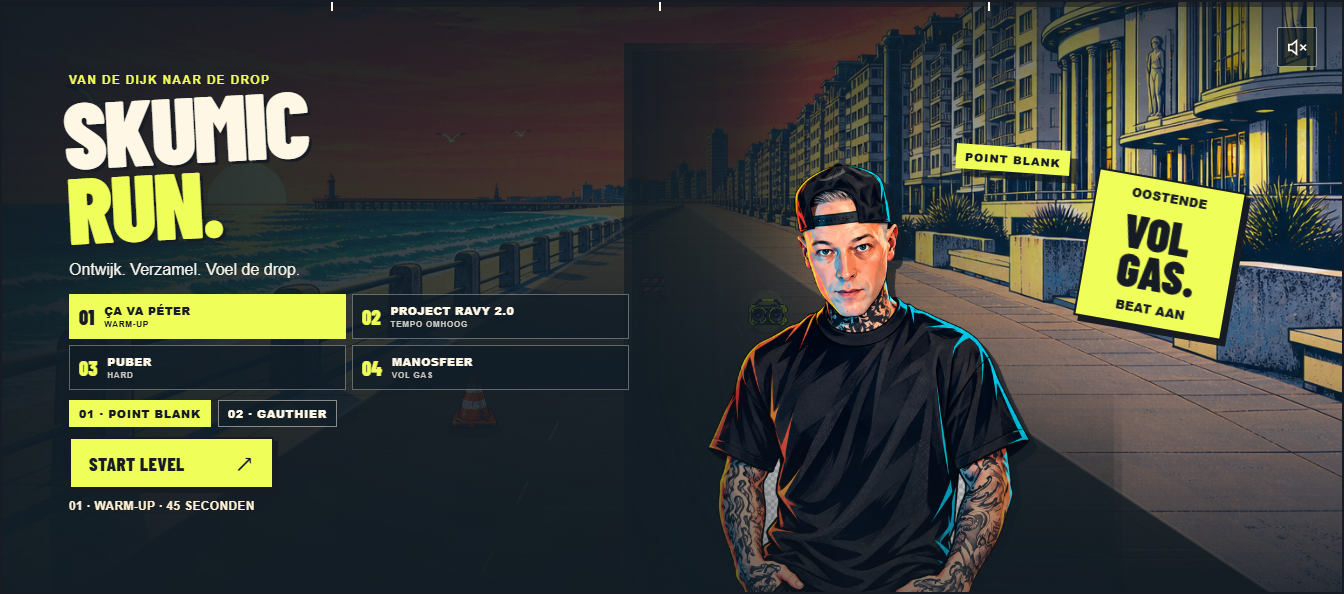
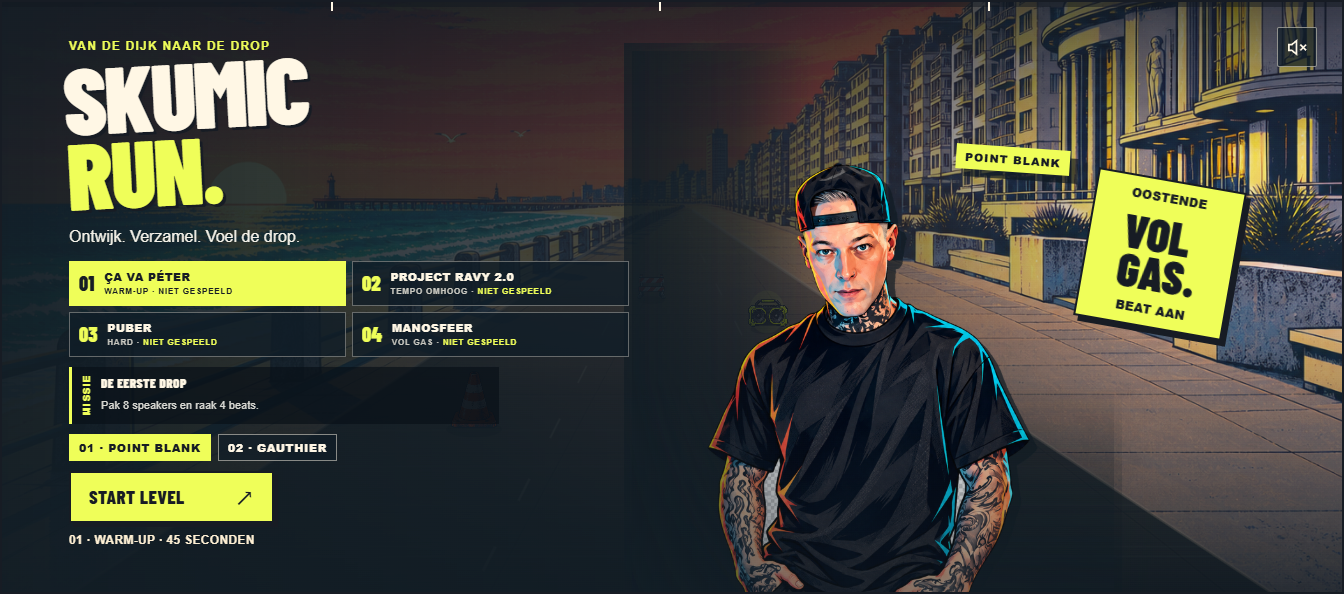
Upgrade Skumic Run and prepare Railway runtime

Changed region(s): [[0.0312, 0.0606, 0.4688, 0.9394], [0.3438, 0.6364, 0.375, 0.7273]]

diff --git a/public/skumic-game/index.html b/public/skumic-game/index.html
@@ -23,19 +23,22 @@
         <canvas id="game" aria-label="Drie rijstroken op de Oostendse zeedijk. Ontwijk obstakels en verzamel speakers." tabindex="0"></canvas>
         <div class="vignette" aria-hidden="true"></div>
         <div class="run-progress" aria-hidden="true"><div id="run-progress"></div><i></i><i></i><i></i></div>
+        <div class="level-grade" aria-hidden="true"></div>
         <div class="hud" id="hud">
           <div class="score-block"><span class="hud-label">SCORE</span><strong id="score">00000</strong><span class="best-label">BEST <b id="best">00000</b></span></div>
           <div class="run-stats"><div class="time-stat"><span class="hud-label">TIJD</span><strong id="time">45<span>s</span></strong></div><div class="lives" id="lives" aria-label="3 levens">♥ ♥ ♥</div><div class="combo-stat"><span class="hud-label">FLOW</span><strong id="combo">0</strong></div></div>
           <div class="game-tools"><button id="pause" class="icon-button" aria-label="Pauzeer spel" title="Pauze (P)" hidden>Ⅱ</button><button id="sound" class="icon-button sound-button" aria-label="Geluid aanzetten" title="Geluid aanzetten"><svg viewBox="0 0 24 24" fill="none" stroke="currentColor" stroke-width="1.8" aria-hidden="true"><path d="M11 5 6 9H3v6h3l5 4z"/><path class="sound-waves" d="M15 8c3 2 3 6 0 8m3-11c5 4 5 10 0 14"/><path class="sound-off" d="m15 9 6 6m0-6-6 6"/></svg></button></div>
         </div>
+        <div class="mission-hud" id="mission-hud"><span>MISSIE</span><b id="mission-progress">0/8 SPEAKERS · 0/4 BEATS</b></div>
         <div class="game-feedback" id="feedback" aria-live="polite"></div>
+        <div class="level-intro" id="level-intro" hidden aria-live="polite"><span id="intro-kicker">LEVEL 01</span><strong id="intro-title">ÇA VA PÉTER</strong><em id="intro-go">READY</em></div>
         <div class="start-screen overlay" id="start-screen">
-          <div class="start-copy"><span class="eyebrow">VAN DE DIJK NAAR DE DROP</span><h1>SKUMIC<br><span>RUN.</span></h1><p>Ontwijk. Verzamel. Voel de drop.</p><div class="level-picker" role="group" aria-label="Kies je level"><button class="level-choice selected" id="level-1" type="button" aria-pressed="true"><b>01</b><span>ÇA VA PÉTER<small>WARM-UP</small></span></button><button class="level-choice" id="level-2" type="button" aria-pressed="false"><b>02</b><span>PROJECT RAVY 2.0<small>TEMPO OMHOOG</small></span></button><button class="level-choice" id="level-3" type="button" aria-pressed="false"><b>03</b><span>PUBER<small>HARD</small></span></button><button class="level-choice" id="level-4" type="button" aria-pressed="false"><b>04</b><span>MANOSFEER<small>VOL GAS</small></span></button></div><div class="character-picker" role="group" aria-label="Kies je personage"><button class="character-choice selected" id="character-1" type="button" aria-pressed="true">01 · POINT BLANK</button><button class="character-choice" id="character-2" type="button" aria-pressed="false">02 · GAUTHIER</button></div><button class="primary-button" id="start">START LEVEL <span aria-hidden="true">↗</span></button><div class="start-caption" id="start-caption">01 · WARM-UP · 45 SECONDEN</div></div>
+          <div class="start-copy"><span class="eyebrow">VAN DE DIJK NAAR DE DROP</span><h1>SKUMIC<br><span>RUN.</span></h1><p>Ontwijk. Verzamel. Voel de drop.</p><div class="level-picker" role="group" aria-label="Kies je level"><button class="level-choice selected" id="level-1" type="button" aria-pressed="true"><b>01</b><span>ÇA VA PÉTER<small>WARM-UP · <i id="rank-1">—</i></small></span></button><button class="level-choice" id="level-2" type="button" aria-pressed="false"><b>02</b><span>PROJECT RAVY 2.0<small>TEMPO OMHOOG · <i id="rank-2">—</i></small></span></button><button class="level-choice" id="level-3" type="button" aria-pressed="false"><b>03</b><span>PUBER<small>HARD · <i id="rank-3">—</i></small></span></button><button class="level-choice" id="level-4" type="button" aria-pressed="false"><b>04</b><span>MANOSFEER<small>VOL GAS · <i id="rank-4">—</i></small></span></button></div><div class="mission-brief"><span>MISSIE</span><strong id="mission-title">DE EERSTE DROP</strong><p id="mission-copy">Pak 8 speakers en raak 4 beats.</p></div><div class="character-picker" role="group" aria-label="Kies je personage"><button class="character-choice selected" id="character-1" type="button" aria-pressed="true">01 · POINT BLANK</button><button class="character-choice" id="character-2" type="button" aria-pressed="false">02 · GAUTHIER</button></div><button class="primary-button" id="start">START LEVEL <span aria-hidden="true">↗</span></button><div class="start-caption" id="start-caption">01 · WARM-UP · 45 SECONDEN</div></div>
           <div class="character-card" aria-hidden="true"><img id="character-portrait" src="./assets/character-portrait.png" alt=""><span id="player-label">POINT BLANK</span></div>
           <div class="start-sticker" aria-hidden="true"><span>OOSTENDE</span><b>VOL<br>GAS.</b><span>BEAT AAN</span></div>
         </div>
         <div class="pause-screen overlay" id="pause-screen" hidden><div class="pause-card"><span class="eyebrow">EVEN OP ADEM</span><h2>PAUZE.</h2><p>De beat wacht op jou.</p><button class="primary-button" id="resume">VERDER SPELEN <span aria-hidden="true">↗</span></button></div></div>
-        <div class="result-screen overlay" id="result-screen" hidden><div class="result-card"><span class="eyebrow" id="result-eyebrow">RUN VOLTOOID</span><h2 id="result-title">DIJK VAN<br>EEN RUN.</h2><div class="result-score" id="result-score">0</div><span class="result-score-label">PUNTEN</span><div class="result-stats"><div><b id="result-speakers">0</b><span>SPEAKERS</span></div><div><b id="result-beats">0</b><span>BEAT HITS</span></div><div><b id="result-flow">0</b><span>MAX FLOW</span></div><div><b id="result-best">0</b><span>JOUW BEST</span></div></div><button class="primary-button" id="next-level">VOLGEND LEVEL <span aria-hidden="true">↗</span></button><button class="share-button" id="restart">SPEEL OPNIEUW <span aria-hidden="true">↗</span></button><button class="share-button" id="level-menu">KIES EEN LEVEL <span aria-hidden="true">↗</span></button><button class="share-button" id="share">DEEL JE SCORE <span aria-hidden="true">↗</span></button><p class="share-status" id="share-status" role="status"></p><a class="result-listen" href="https://open.spotify.com/artist/3iG6zyXOqRQOiRfTKPvDJq" target="_blank" rel="noopener noreferrer">Meer energie? Luister Skumic op Spotify ↗</a><p class="result-demo" id="result-demo">Soundtrack: Ça Va Péter — Skumic.</p></div></div>
+        <div class="result-screen overlay" id="result-screen" hidden><div class="result-card"><span class="eyebrow" id="result-eyebrow">RUN VOLTOOID</span><div class="rank-lockup"><span>RANK</span><strong id="result-rank">A</strong><em id="result-mission">MISSIE VOLTOOID</em></div><h2 id="result-title">DIJK VAN<br>EEN RUN.</h2><div class="result-score" id="result-score">0</div><span class="result-score-label">PUNTEN</span><div class="result-stats"><div><b id="result-speakers">0</b><span>SPEAKERS</span></div><div><b id="result-beats">0</b><span>BEAT HITS</span></div><div><b id="result-flow">0</b><span>MAX FLOW</span></div><div><b id="result-best">0</b><span>JOUW BEST</span></div></div><button class="primary-button" id="next-level">VOLGEND LEVEL <span aria-hidden="true">↗</span></button><button class="share-button" id="restart">SPEEL OPNIEUW <span aria-hidden="true">↗</span></button><button class="share-button" id="level-menu">KIES EEN LEVEL <span aria-hidden="true">↗</span></button><button class="share-button" id="share">DEEL JE SCORE <span aria-hidden="true">↗</span></button><p class="share-status" id="share-status" role="status"></p><a class="result-listen" href="https://open.spotify.com/artist/3iG6zyXOqRQOiRfTKPvDJq" target="_blank" rel="noopener noreferrer">Meer energie? Luister Skumic op Spotify ↗</a><p class="result-demo" id="result-demo">Soundtrack: Ça Va Péter — Skumic.</p></div></div>
         <div class="beat-panel" id="beat-panel"><div class="beat-heading"><span id="beat-label">VIND JE RITME</span><span id="boost-label">DROP IN 11s</span></div><div class="beat-meter" id="beat-meter" aria-label="Ritme-indicator"><div id="beat-progress"></div><div class="beat-target"></div><div class="beat-cursor" id="beat-cursor"></div></div><div class="beat-caption"><span id="beat-tip">SPRING OP DE BEAT → EXTRA PUNTEN</span><span id="multiplier">×1</span></div></div>
         <div class="touch-controls" id="touch-controls"><button id="left" aria-label="Naar links">←</button><button id="jump" aria-label="Spring op de beat"><span>↑</span> SPRING</button><button id="right" aria-label="Naar rechts">→</button></div>
       </section>

diff --git a/public/skumic-game/game.js b/public/skumic-game/game.js
@@ -9,7 +9,9 @@ let best = 0, mutedByChoice = false, feedbackUntil = 0, particles = [], popups =
 let pointerStart = null, uiUpdated = 0, lastBeat = -1, lastCombo = 0;
 let selectedCharacter = 1, selectedLevel = 0;
 const levelBests = {};
+const levelRanks = {};
 try { Object.assign(levelBests, JSON.parse(localStorage.getItem('skumic-run-level-bests') || '{}')); } catch {}
+try { Object.assign(levelRanks, JSON.parse(localStorage.getItem('skumic-run-level-ranks') || '{}')); } catch {}
 best = Number(levelBests[LEVELS[0].id]) || 0;
 const reducedMotion = matchMedia('(prefers-reduced-motion: reduce)').matches;
 const images = {};
@@ -18,6 +20,14 @@ for (const [name, source] of Object.entries({ background: './assets/oostende.png
 }
 const padScore = value => Math.floor(value).toString().padStart(5, '0');
 $('best').textContent = padScore(best);
+const rankValue = rank => ({ S: 4, A: 3, B: 2, C: 1, D: 0 }[rank] ?? -1);
+function calculateRank(score) {
+  if (!model.lives) return 'D';
+  if (score >= MUSIC.ranks[0] && model.lives === 3) return 'S';
+  if (score >= MUSIC.ranks[1]) return 'A';
+  if (score >= MUSIC.ranks[2]) return 'B';
+  return 'C';
+}
 
 function selectCharacter(choice) {
   if (mode === 'playing' || mode === 'starting') return;
@@ -41,10 +51,13 @@ function selectLevel(index) {
   $('selected-track').textContent = `${level.title} · SKUMIC`;
   $('result-demo').textContent = `Soundtrack: ${level.title} — Skumic.`;
   $('start-caption').textContent = `${level.number} · ${level.difficulty} · 45 SECONDEN`;
+  $('mission-title').textContent = level.subtitle;
+  $('mission-copy').textContent = `Pak ${level.mission.speakers} speakers en raak ${level.mission.beats} beats.`;
   document.documentElement.dataset.level = String(selectedLevel + 1);
   for (let i = 0; i < LEVELS.length; i++) {
     const button = $(`level-${i + 1}`), selected = i === selectedLevel;
     button.classList.toggle('selected', selected); button.setAttribute('aria-pressed', String(selected));
+    $(`rank-${i + 1}`).textContent = levelRanks[LEVELS[i].id] ? `RANK ${levelRanks[LEVELS[i].id]}` : 'NIET GESPEELD';
   }
 }
 
@@ -83,6 +96,8 @@ async function start() {
   $('start-screen').hidden = true; $('result-screen').hidden = true; $('pause-screen').hidden = true;
   $('pause').hidden = false; $('share-status').textContent = ''; $('feedback').classList.remove('show');
   $('game-frame').classList.add('started'); mode = 'playing'; audio.start(0);
+  $('intro-kicker').textContent = `LEVEL ${MUSIC.number} · ${MUSIC.difficulty}`; $('intro-title').textContent = MUSIC.title; $('intro-go').textContent = MUSIC.subtitle;
+  const intro = $('level-intro'); intro.hidden = false; intro.classList.remove('play'); void intro.offsetWidth; intro.classList.add('play'); setTimeout(() => { intro.hidden = true; }, 1900);
   soundState(); lastFrame = performance.now(); $('start').disabled = false; $('restart').disabled = false;
   $('start').innerHTML = startLabel; $('restart').innerHTML = restartLabel;
   canvas.focus({ preventScroll: true }); updateUI();
@@ -102,14 +117,19 @@ async function resume() {
 function finish() {
   mode = 'finished'; audio.stop(); $('pause').hidden = true;
   $('game-frame').classList.remove('boosting'); $('feedback').classList.remove('show');
-  const score = Math.floor(model.score), record = score > best;
+  const score = Math.floor(model.score), record = score > best, rank = calculateRank(score);
   if (record) { best = score; levelBests[MUSIC.id] = best; try { localStorage.setItem('skumic-run-level-bests', JSON.stringify(levelBests)); } catch {} }
+  if (!levelRanks[MUSIC.id] || rankValue(rank) > rankValue(levelRanks[MUSIC.id])) { levelRanks[MUSIC.id] = rank; try { localStorage.setItem('skumic-run-level-ranks', JSON.stringify(levelRanks)); } catch {} }
+  const missionComplete = model.speakers >= MUSIC.mission.speakers && model.beats >= MUSIC.mission.beats;
   $('result-eyebrow').textContent = record ? 'NIEUWE PERSOONLIJKE BEST!' : model.lives ? '45 SECONDEN. ALLES GEGEVEN.' : 'DE DIJK HAD ANDERE PLANNEN';
   $('result-title').innerHTML = model.lives ? 'DIJK VAN<br>EEN RUN.' : 'NOG NIET<br>UITGERAASD?';
   $('result-score').textContent = score.toLocaleString('nl-BE'); $('result-best').textContent = best.toLocaleString('nl-BE');
   $('result-speakers').textContent = model.speakers; $('result-beats').textContent = model.beats; $('result-flow').textContent = model.maxCombo;
+  $('result-rank').textContent = rank; $('result-mission').textContent = missionComplete ? 'MISSIE VOLTOOID' : 'MISSIE NIET VOLTOOID';
+  $('result-mission').classList.toggle('complete', missionComplete);
   $('next-level').innerHTML = selectedLevel < LEVELS.length - 1 ? 'VOLGEND LEVEL <span aria-hidden="true">↗</span>' : 'LEVELS KIEZEN <span aria-hidden="true">↗</span>';
   $('best').textContent = padScore(best); $('result-screen').hidden = false;
+  $(`rank-${selectedLevel + 1}`).textContent = `RANK ${levelRanks[MUSIC.id]}`;
   $('next-level').focus({ preventScroll: true });
 }
 function showLevelMenu() {
@@ -210,6 +230,14 @@ function drawBackdrop() {
   } else {
     const gradient = ctx.createLinearGradient(0, 0, 0, height); gradient.addColorStop(0, '#ef6960'); gradient.addColorStop(.4, '#eeab83'); gradient.addColorStop(.401, '#456b6a'); gradient.addColorStop(1, '#273941'); ctx.fillStyle = gradient; ctx.fillRect(0, 0, width, height);
   }
+  // Each track gets its own atmosphere without replacing the supplied Oostende art.
+  const grade = [
+    ['rgba(255,78,68,.10)', 'rgba(255,192,98,.06)'],
+    ['rgba(129,43,255,.18)', 'rgba(0,223,255,.08)'],
+    ['rgba(6,18,40,.28)', 'rgba(255,25,105,.10)'],
+    ['rgba(0,8,20,.38)', 'rgba(239,254,89,.08)'],
+  ][selectedLevel];
+  const sky = ctx.createLinearGradient(0, 0, 0, height); sky.addColorStop(0, grade[0]); sky.addColorStop(1, grade[1]); ctx.fillStyle = sky; ctx.fillRect(0, 0, width, height);
   const horizon = height * .35, roadLeft = project(-.5, -65), roadRight = project(2.5, -65), bottom = roadLeft.y;
   const roadGradient = ctx.createLinearGradient(0, horizon, 0, bottom); roadGradient.addColorStop(0, 'rgba(43,47,50,.24)'); roadGradient.addColorStop(.27, 'rgba(44,47,48,.88)'); roadGradient.addColorStop(1, '#293136');
   polygon([[width / 2 - 18, horizon], [width / 2 + 18, horizon], [roadRight.x, bottom], [roadLeft.x, bottom]], roadGradient);
@@ -234,6 +262,12 @@ function drawBackdrop() {
     const a = project(edge, -27), b = project(edge, 126);
     ctx.strokeStyle = model.boost ? '#effe59' : '#e3c3a780'; ctx.lineWidth = width < 600 ? 2 : 3;
     ctx.beginPath(); ctx.moveTo(a.x, a.y); ctx.lineTo(b.x, b.y); ctx.stroke();
+  }
+  if (mode === 'playing' && selectedLevel > 0 && !reducedMotion) {
+    ctx.save(); ctx.strokeStyle = selectedLevel === 3 ? '#effe5938' : '#ffffff22'; ctx.lineWidth = selectedLevel + 1;
+    const count = 6 + selectedLevel * 4;
+    for (let i = 0; i < count; i++) { const x = ((i * 137 + frameNow * (.035 + selectedLevel * .012)) % (width + 120)) - 60, y = (i * 83) % height; ctx.beginPath(); ctx.moveTo(x, y); ctx.lineTo(x - 14 - selectedLevel * 7, y + 38 + selectedLevel * 10); ctx.stroke(); }
+    ctx.restore();
   }
 }
 function shadow(x, y, size, opacity = .32) { ctx.fillStyle = `rgba(6,16,22,${opacity})`; ctx.beginPath(); ctx.ellipse(x, y, size * .55, size * .16, 0, 0, Math.PI * 2); ctx.fill(); }
@@ -305,6 +339,8 @@ function updateUI() {
   $('beat-label').textContent = model.boost ? 'BEATBOOST ACTIEF' : 'VIND JE RITME';
   $('beat-tip').textContent = model.boost ? 'PAK ALLES. JE BREEKT ERDOORHEEN.' : 'SPRING ALS DE BALK VOL IS';
   $('multiplier').textContent = `×${model.multiplier}`;
+  $('mission-progress').textContent = `${Math.min(model.speakers, MUSIC.mission.speakers)}/${MUSIC.mission.speakers} SPEAKERS · ${Math.min(model.beats, MUSIC.mission.beats)}/${MUSIC.mission.beats} BEATS`;
+  $('mission-hud').classList.toggle('complete', model.speakers >= MUSIC.mission.speakers && model.beats >= MUSIC.mission.beats);
   $('game-frame').classList.toggle('boosting', model.boost && mode === 'playing');
   if (beat !== lastBeat) { lastBeat = beat; $('beat-meter').style.borderColor = '#effe59'; }
   else if (fraction > .22) $('beat-meter').style.borderColor = 'rgba(255,255,255,.18)';

diff --git a/public/skumic-game/styles.css b/public/skumic-game/styles.css
@@ -33,3 +33,15 @@ button,a{touch-action:manipulation}
 @media(max-width:760px){.game-frame{height:min(82svh,720px);min-height:620px}.start-screen{padding:82px 18px 95px;align-items:center;overflow:auto}.start-copy{width:100%;max-width:430px}.start-copy h1{font-size:clamp(60px,20vw,82px);margin:7px 0 10px}.start-copy p{font-size:14px;margin-bottom:10px}.level-picker{gap:5px}.level-choice{min-height:42px;padding:6px 7px}.level-choice>b{font-size:18px}.level-choice>span{font-size:10px}.level-choice small{font-size:7px}.character-card{display:none}.character-picker{gap:5px}.character-choice{font-size:9px;padding:7px}.start-copy .primary-button{font-size:18px;min-height:45px}.start-caption{font-size:9px;line-height:1.3}.made-by{display:block}.below-game{align-items:center}}
 @media(max-width:420px){.game-frame{min-height:650px}.start-screen{padding-inline:14px}.level-choice>span{font-size:9px}.level-choice small{letter-spacing:.4px}footer{flex-wrap:wrap}.made-by{order:3;width:100%;text-align:center;margin-top:4px}}
 @media(max-width:370px){.brand{font-size:25px;gap:5px}.brand-mark{display:none}.game-topline{font-size:12px;letter-spacing:0}.start-screen{padding-left:20px}.start-copy p{max-width:220px}.start-caption{max-width:220px}.beat-caption{font-size:12px}.beat-panel{left:18px;right:18px}.beat-heading{font-size:12px}.result-listen{font-size:14px}.result-card h2{font-size:38px}.result-score{font-size:53px}}
+
+/* Cinematic campaign polish */
+:root{--level-glow:#ff695f;--level-deep:#391a22}html[data-level="2"]{--level-glow:#a14cff;--level-deep:#17113c}html[data-level="3"]{--level-glow:#ff2879;--level-deep:#071a35}html[data-level="4"]{--level-glow:#effe59;--level-deep:#071018}
+body{background:radial-gradient(circle at 50% 20%,var(--level-glow),var(--red) 42%);transition:background .55s ease}.level-grade{position:absolute;inset:0;z-index:2;pointer-events:none;mix-blend-mode:screen;opacity:.23;background:radial-gradient(circle at 52% 32%,var(--level-glow),transparent 44%);transition:background .5s}
+.mission-brief{display:grid;grid-template-columns:auto 1fr;align-items:center;column-gap:10px;margin:0 0 10px;padding:8px 10px;border-left:3px solid var(--yellow);background:rgba(7,15,22,.67);width:min(430px,100%)}.mission-brief>span{grid-row:1/3;font:800 9px/1 Arial,sans-serif;letter-spacing:1px;color:var(--yellow);writing-mode:vertical-rl;transform:rotate(180deg)}.mission-brief strong{font:900 13px/1 Barlow,Impact,sans-serif;letter-spacing:.5px}.mission-brief p{font-size:11px!important;margin:3px 0 0!important;color:#d9d9d3!important}
+.mission-hud{position:absolute;left:29px;top:114px;z-index:5;color:var(--cream);display:flex;flex-direction:column;gap:4px;pointer-events:none}.mission-hud>span{font:700 9px/1 Arial,sans-serif;letter-spacing:1.2px;color:#ccd0d2}.mission-hud>b{font:800 11px/1.2 Arial,sans-serif;letter-spacing:.45px}.mission-hud.complete>b{color:var(--yellow);text-shadow:0 0 10px var(--yellow)}.game-frame:not(.started) .mission-hud{visibility:hidden}
+.level-intro{position:absolute;inset:0;z-index:8;display:grid;place-content:center;text-align:center;color:var(--cream);pointer-events:none;background:linear-gradient(90deg,transparent,var(--level-deep) 20%,var(--level-deep) 80%,transparent);clip-path:inset(42% 0)}.level-intro span,.level-intro em{font:800 11px/1 Arial,sans-serif;letter-spacing:2.2px;color:var(--yellow)}.level-intro strong{font:900 clamp(52px,8vw,110px)/.82 Barlow,Impact,sans-serif;font-style:italic;letter-spacing:-2px;text-shadow:4px 4px 0 #05070a;margin:12px 0}.level-intro.play{animation:intro-panel 1.85s ease both}.level-intro.play span,.level-intro.play strong,.level-intro.play em{animation:intro-type 1.85s ease both}@keyframes intro-panel{0%{clip-path:inset(50% 0);opacity:0}12%,75%{clip-path:inset(30% 0);opacity:1}100%{clip-path:inset(50% 0);opacity:0}}@keyframes intro-type{0%,10%{transform:translateX(-55px);opacity:0}24%,70%{transform:none;opacity:1}100%{transform:translateX(55px);opacity:0}}
+.rank-lockup{position:absolute;left:calc(50% + 120px);top:22px;display:flex;flex-direction:column;align-items:center;transform:rotate(4deg)}.rank-lockup>span{font:800 9px/1 Arial,sans-serif;letter-spacing:2px}.rank-lockup>strong{font:900 72px/.78 Barlow,Impact,sans-serif;color:var(--yellow);text-shadow:3px 3px 0 #000}.rank-lockup>em{font:800 8px/1 Arial,sans-serif;letter-spacing:.6px;background:#3c4249;padding:5px 7px;margin-top:7px;white-space:nowrap}.rank-lockup>em.complete{background:var(--yellow);color:var(--ink)}.result-card{position:relative}.result-card h2{padding-right:64px}.level-choice small i{font-style:normal;color:var(--yellow)}.level-choice.selected small i{color:var(--ink)}
+.game-frame.boosting .level-grade{opacity:.46;animation:grade-pulse .35s linear infinite alternate}@keyframes grade-pulse{to{opacity:.2}}
+@media(max-width:760px){.mission-hud{left:18px;top:142px}.mission-hud>b{font-size:10px}.level-intro strong{font-size:clamp(45px,15vw,72px)}.rank-lockup{left:auto;right:2px;top:20px}.rank-lockup>strong{font-size:58px}.rank-lockup>em{font-size:7px}.result-card h2{padding-right:55px}.mission-brief{padding-block:6px}.mission-brief p{font-size:10px!important}}
+@media(max-width:420px){.mission-hud{top:148px}.level-choice small{line-height:1.25}.rank-lockup{top:18px}.result-card h2{font-size:36px;padding-right:62px}}
+@media(prefers-reduced-motion:reduce){.level-intro.play,.level-intro.play span,.level-intro.play strong,.level-intro.play em{animation:none}.level-intro{display:none!important}}

diff --git a/public/skumic-game/engine.js b/public/skumic-game/engine.js
@@ -2,10 +2,10 @@ export const ROUND_SECONDS = 45;
 
 // Timings are measured from the supplied recordings. Every level uses a 45-second excerpt.
 export const LEVELS = [
-  { id: 'ca-va-peter', number: '01', title: 'ÇA VA PÉTER', subtitle: 'DE EERSTE DROP', difficulty: 'WARM-UP', src: './assets/ca-va-peter.mp3', bpm: 174, beatOffset: 0, sourceStart: 11.122483, boostWindows: [[11.0, 16.5], [22.1, 27.6], [33.1, 38.6]], speed: 1, density: 1 },
-  { id: 'project-ravy', number: '02', title: 'PROJECT RAVY 2.0', subtitle: 'RAVE OP DE DIJK', difficulty: 'TEMPO OMHOOG', src: './assets/project-ravy-2.mp3', bpm: 175, beatOffset: .012, sourceStart: 234, boostWindows: [[0, 5], [14, 19], [22, 27]], speed: 1.07, density: .94 },
-  { id: 'puber', number: '03', title: 'PUBER', subtitle: 'GEEN REM MEER', difficulty: 'HARD', src: './assets/puber.mp3', bpm: 175, beatOffset: .312, sourceStart: 76, boostWindows: [[18, 23], [29, 34], [40, 45]], speed: 1.13, density: .88 },
-  { id: 'manosfeer', number: '04', title: 'MANOSFEER', subtitle: 'FINALE AAN ZEE', difficulty: 'VOL GAS', src: './assets/manosfeer.mp3', bpm: 174, beatOffset: .184, sourceStart: 44, boostWindows: [[1, 6], [12, 17], [40, 45]], speed: 1.20, density: .82 },
+  { id: 'ca-va-peter', number: '01', title: 'ÇA VA PÉTER', subtitle: 'DE EERSTE DROP', difficulty: 'WARM-UP', src: './assets/ca-va-peter.mp3', bpm: 174, beatOffset: 0, sourceStart: 11.122483, boostWindows: [[11.0, 16.5], [22.1, 27.6], [33.1, 38.6]], speed: 1, density: 1, gullAfter: 17, doubleAfter: 22, mission: { speakers: 8, beats: 4 }, ranks: [2600, 1900, 1200] },
+  { id: 'project-ravy', number: '02', title: 'PROJECT RAVY 2.0', subtitle: 'RAVE OP DE DIJK', difficulty: 'TEMPO OMHOOG', src: './assets/project-ravy-2.mp3', bpm: 175, beatOffset: .012, sourceStart: 234, boostWindows: [[0, 5], [14, 19], [22, 27]], speed: 1.07, density: .94, gullAfter: 13, doubleAfter: 19, mission: { speakers: 10, beats: 5 }, ranks: [3200, 2350, 1500] },
+  { id: 'puber', number: '03', title: 'PUBER', subtitle: 'GEEN REM MEER', difficulty: 'HARD', src: './assets/puber.mp3', bpm: 175, beatOffset: .312, sourceStart: 76, boostWindows: [[18, 23], [29, 34], [40, 45]], speed: 1.13, density: .88, gullAfter: 9, doubleAfter: 15, mission: { speakers: 11, beats: 6 }, ranks: [3800, 2800, 1800] },
+  { id: 'manosfeer', number: '04', title: 'MANOSFEER', subtitle: 'FINALE AAN ZEE', difficulty: 'VOL GAS', src: './assets/manosfeer.mp3', bpm: 174, beatOffset: .184, sourceStart: 44, boostWindows: [[1, 6], [12, 17], [40, 45]], speed: 1.20, density: .82, gullAfter: 6, doubleAfter: 10, mission: { speakers: 12, beats: 7 }, ranks: [4500, 3300, 2200] },
 ];
 export let MUSIC = LEVELS[0];
 export let BPM = MUSIC.bpm;
@@ -53,11 +53,11 @@ export class RunModel {
     if (row % 4 === 0) {
       for (let i = 0; i < 3; i++) this.objects.push({ type: 'speaker', lane, z: 115 + i * 10, checked: false });
     } else {
-      const hazard = this.time > 17 && row % 5 === 0 ? 'gull' : row % 3 === 0 ? 'cone' : 'barrier';
+      const hazard = this.time > MUSIC.gullAfter && row % 5 === 0 ? 'gull' : row % 3 === 0 ? 'cone' : 'barrier';
       this.objects.push({ type: hazard, lane, z: 115, checked: false });
       const safeLane = (lane + (row % 2 ? 1 : 2)) % 3;
       this.objects.push({ type: 'speaker', lane: safeLane, z: 115, checked: false });
-      if (this.time > 22 && row % 3 === 0) {
+      if (this.time > MUSIC.doubleAfter && row % 3 === 0) {
         this.objects.push({ type: 'cone', lane: (safeLane + 1) % 3 === lane ? (safeLane + 2) % 3 : (safeLane + 1) % 3, z: 115, checked: false });
       }
     }
